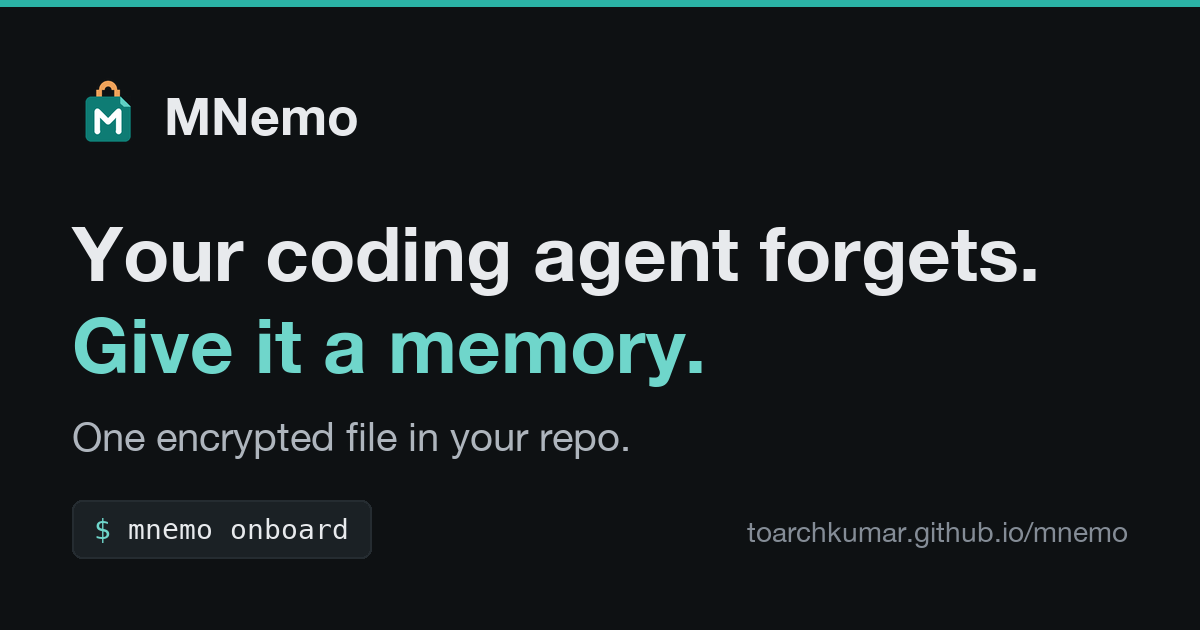
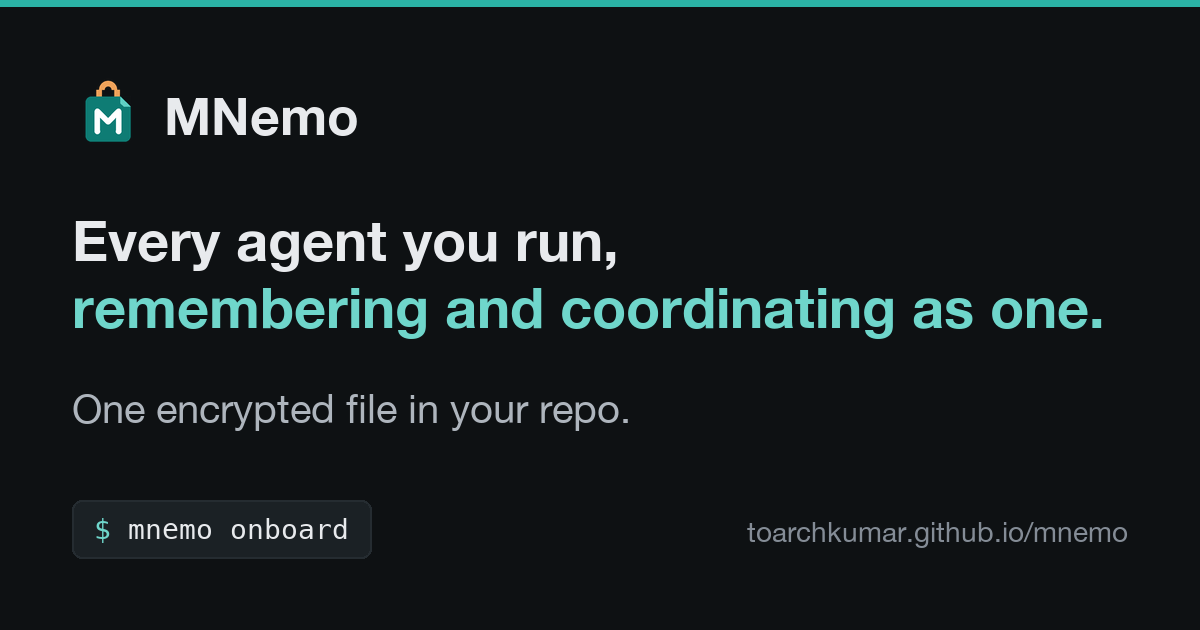
site: the social card follows the new headline (handoff-site-headline)
Claude-Session: https://claude.ai/code/session_01E7D1UTZnJ7tLsdesBoXvYe

Changed region(s): [[0.0617, 0.3317, 0.925, 0.6333], [0.0617, 0.6333, 0.5242, 0.7238]]

diff --git a/docs/img/social-card.py b/docs/img/social-card.py
@@ -85,11 +85,17 @@ def main():
     img.paste(mark, (PAD, 74), mark)
     d.text((PAD + 92, 84), "MNemo", font=sans(52, bold=True), fill=INK)
 
-    # The headline, then the line under it.
-    head = sans(76, bold=True)
-    d.text((PAD, 206), "Your coding agent forgets.", font=head, fill=INK)
-    d.text((PAD, 298), "Give it a memory.", font=head, fill=ACCENT_INK)
-    d.text((PAD, 412), "One encrypted file in your repo.", font=sans(40), fill=INK_2)
+    # The headline, at the largest size up to 76 px whose longer line fits
+    # inside the margins, then the line under it.
+    lines = ("Every agent you run,", "remembering and coordinating as one.")
+    size = 76
+    while max(d.textlength(t, font=sans(size, bold=True)) for t in lines) > W - 2 * PAD:
+        size -= 1
+    head = sans(size, bold=True)
+    pitch = round(size * 1.2)
+    d.text((PAD, 206), lines[0], font=head, fill=INK)
+    d.text((PAD, 206 + pitch), lines[1], font=head, fill=ACCENT_INK)
+    d.text((PAD, 206 + 2 * pitch + 44), "One encrypted file in your repo.", font=sans(40), fill=INK_2)
 
     # The command, as a code pill, and the address.
     f = mono(28)
